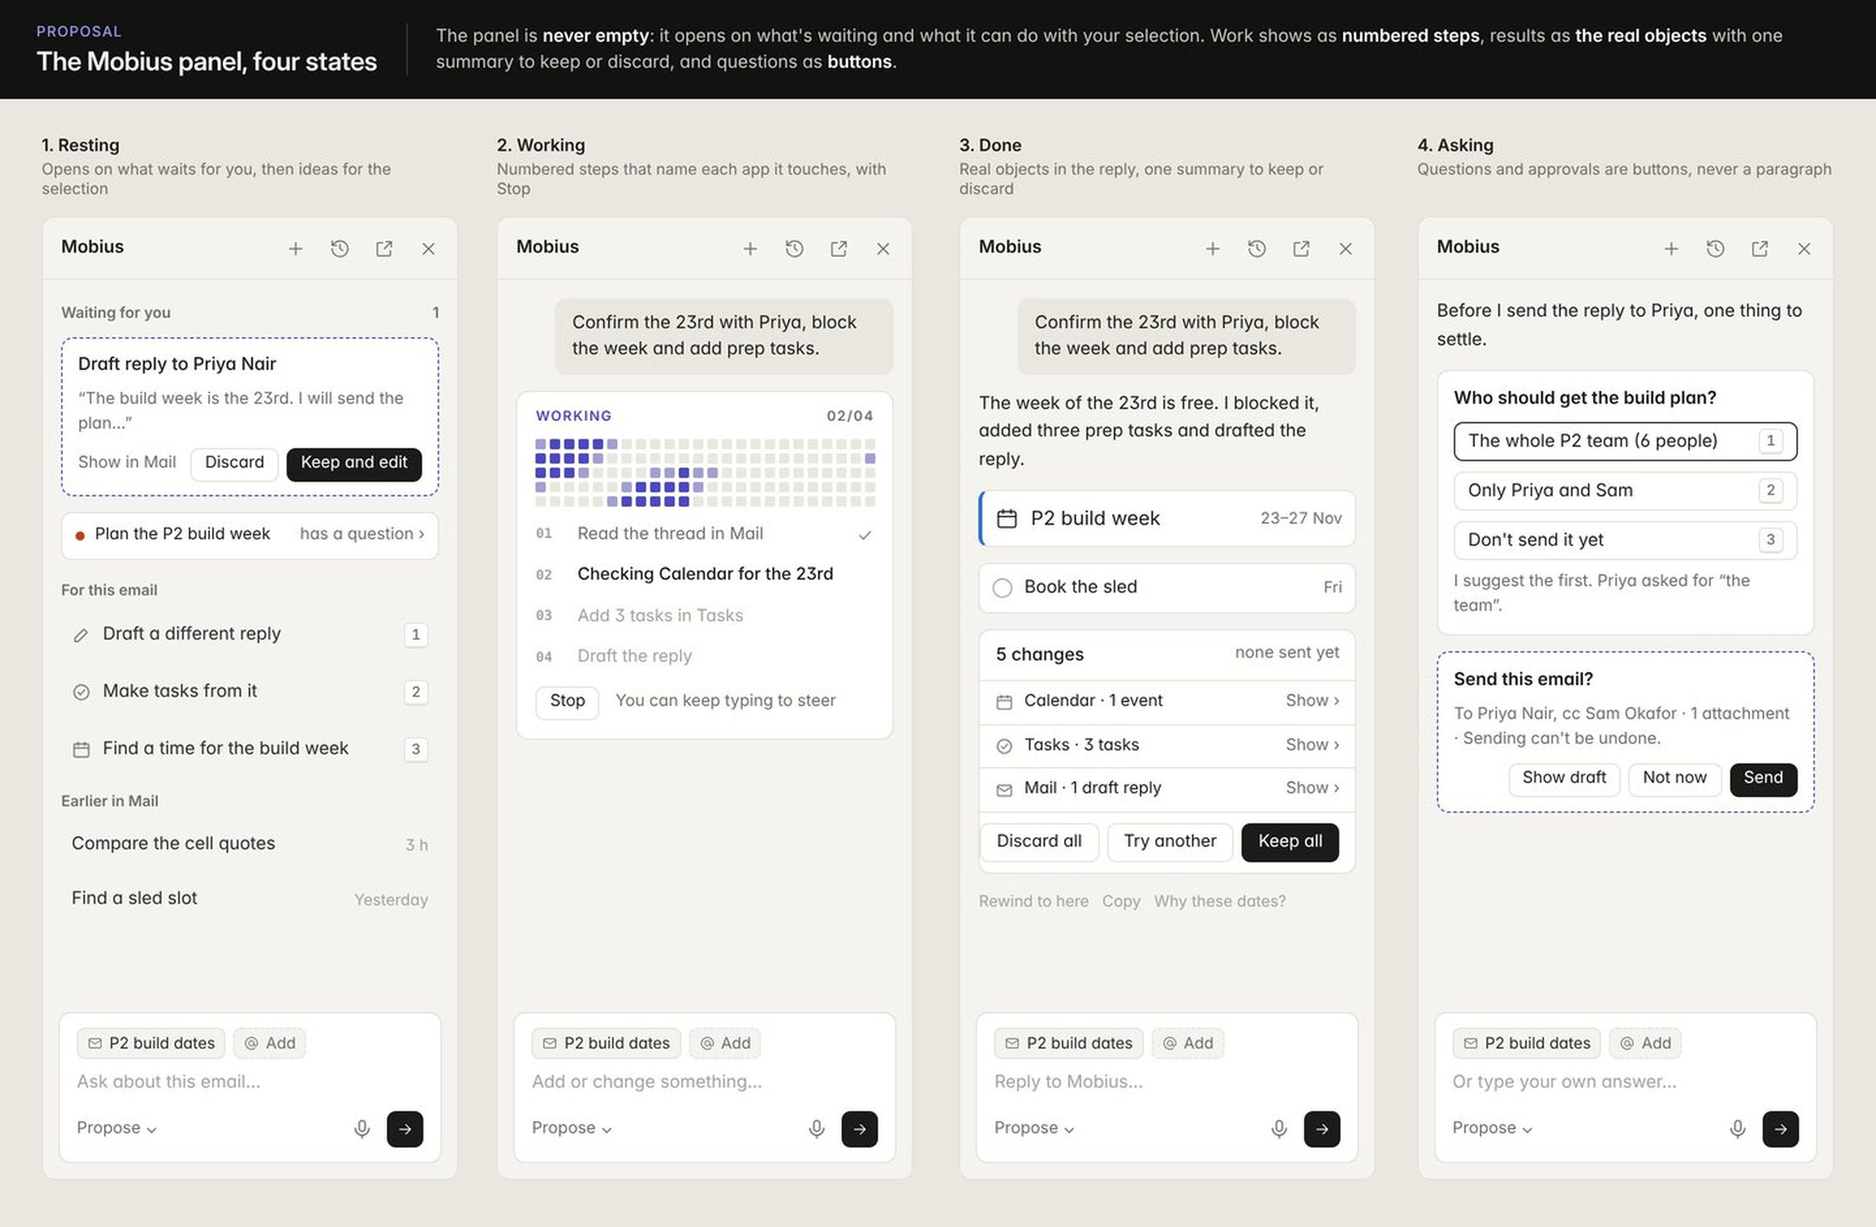
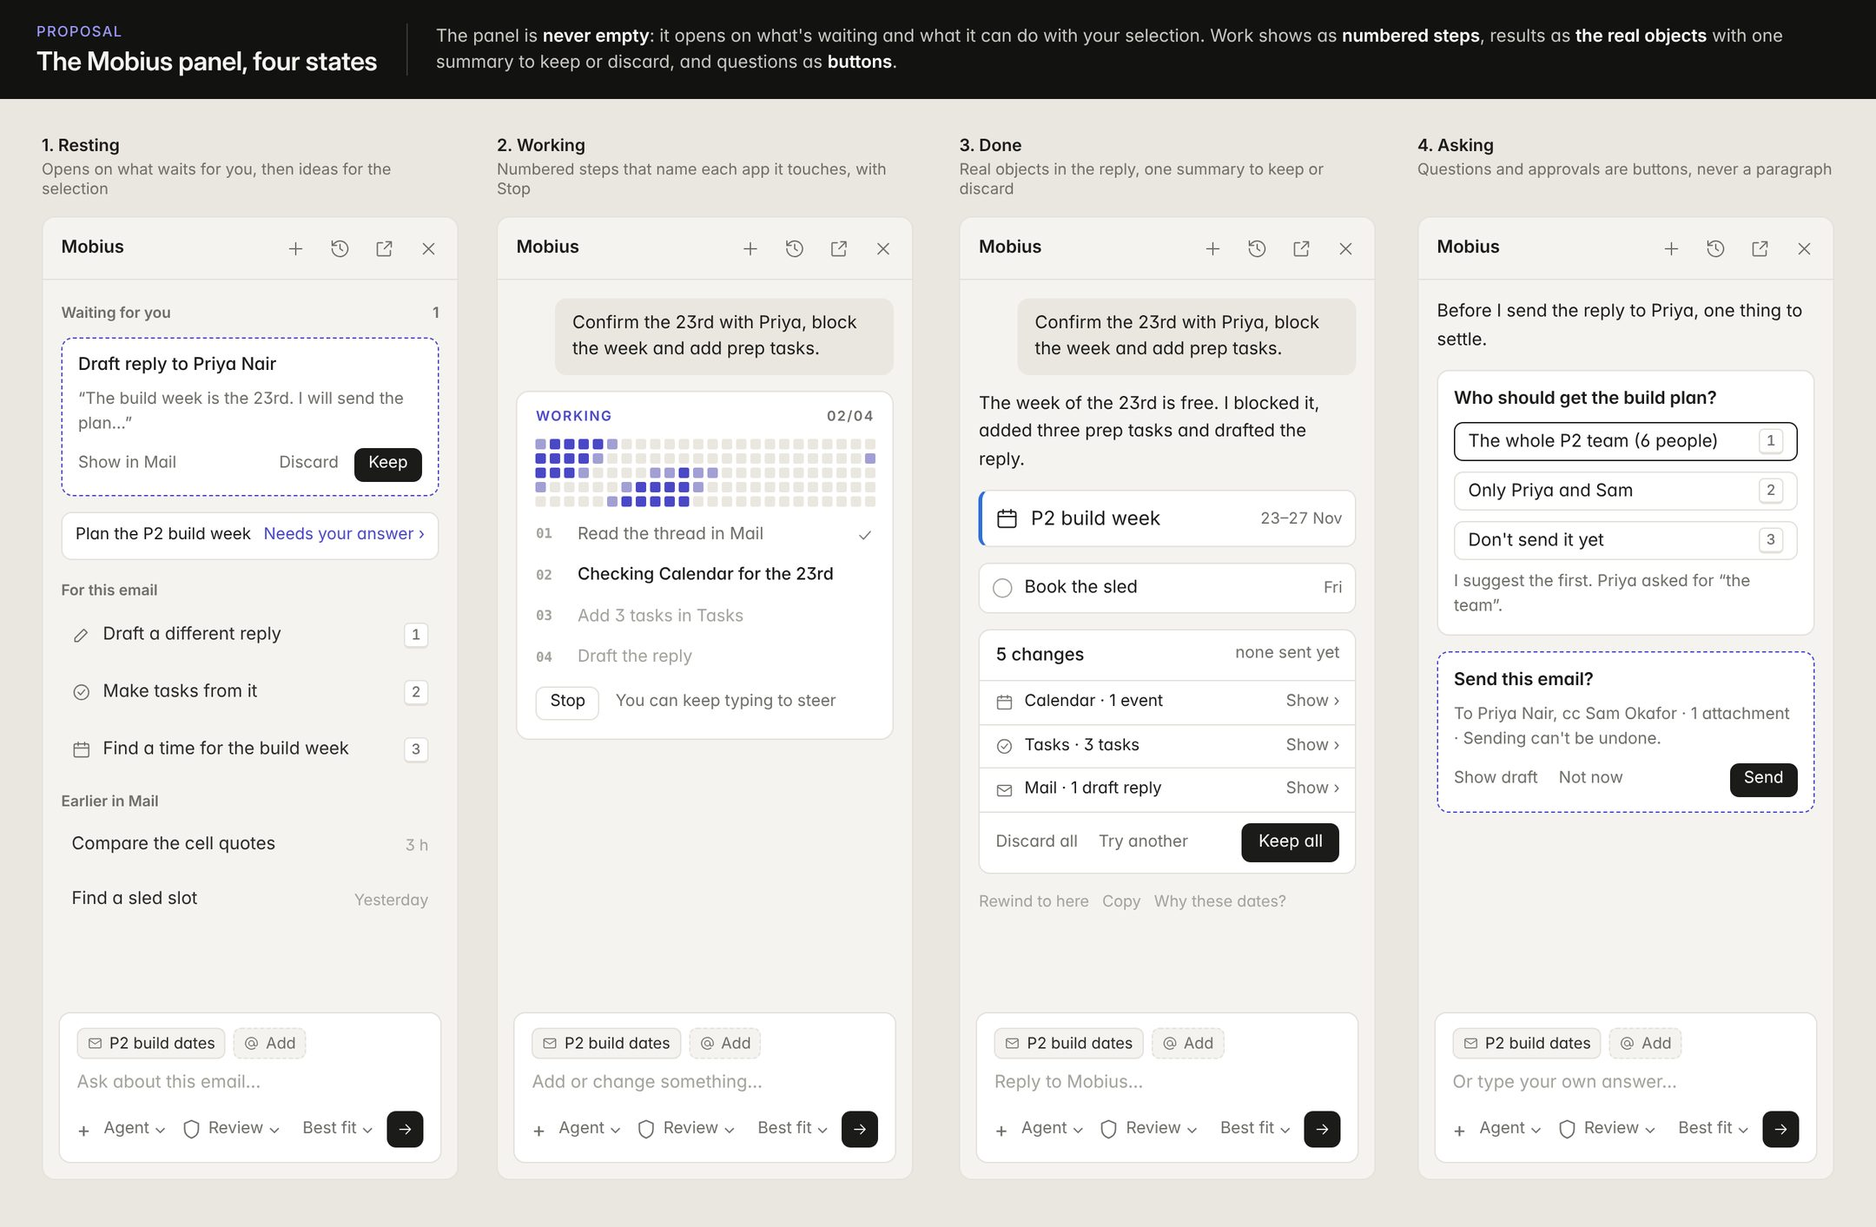
Docs: Instrument rules from the app rounds, shared objects, two-axis pad and the panel build sheet (#203)
* Design: shared objects, two-axis pad and round-review rules in Instrument

Adds the rules settled in the app Instrument rounds and round 9: two-line
row for lists beside a reading pane, the tick slider and meter, the
two-axis pad, the four forms of shared objects, grey calm status, frame-set
compact density for pro apps, and Reader's page colours as the one content
theme exception. Adds the two mocks.

Claude-Session: https://claude.ai/code/session_01VRGwo6jTP5FaDQDU1wMNRF

* Design: build sheet for the Mobius panel, composer, slots and cards

Sizes and parts for each piece of the panel, made from the shared ui/
controls, so the Builder can build stage 5c onwards without guessing.

Claude-Session: https://claude.ai/code/session_01VRGwo6jTP5FaDQDU1wMNRF

* Design: folded cards match the existing cards rule

Claude-Session: https://claude.ai/code/session_01VRGwo6jTP5FaDQDU1wMNRF

* Design: shared date and time fields in the controls table

Claude-Session: https://claude.ai/code/session_01VRGwo6jTP5FaDQDU1wMNRF

* Design: composer row in a narrow panel

Claude-Session: https://claude.ai/code/session_01VRGwo6jTP5FaDQDU1wMNRF

* Design: narrowest composer row

Claude-Session: https://claude.ai/code/session_01VRGwo6jTP5FaDQDU1wMNRF

* Design: number field, readout and letter toggle, first used by Music

Claude-Session: https://claude.ai/code/session_01VRGwo6jTP5FaDQDU1wMNRF

* Design: armed record toggle is red
[…]

diff --git a/docs/design/instrument.md b/docs/design/instrument.md
@@ -100,6 +100,7 @@ small and sparse next to the mocks.
 | Toolbar height | 48px | 52px comfortable, 44px compact |
 | Toolbar title | 13px semibold | 15px semibold |
 | Sidebar app name | 15px | 17px Inter Display |
+| Two-line row, for a list beside a reading pane (Mail, Notes) | None | 56px comfortable, 48px compact (`--row-list-2`) |
 | Reading pages (Home, a note, a doc) | Same as lists | 15 to 16px body, 44px rows, a column at most 680px wide |
 | Page heading on reading pages | None | 28 to 34px Inter Display, bold |
 
@@ -109,8 +110,11 @@ Rules that go with the sizes:
    hints.
 2. There is one row height per density in a view. Rows never vary in height to fit decoration.
 3. Daily apps (Mail, Tasks, Notes, Calendar, Files, Home) default to comfortable. Pro apps (Music, Video, Code,
-   Database, Sheets) default to compact.
+   Database, Sheets) are compact, and the frame makes them so, toolbar included. Apps never set their
+   own density selector.
 4. A short list is centred in a reading column or ends with a designed empty state. It never leaves a blank grey field.
+5. A list that sits beside a reading pane uses the two-line row: the title with the date at the trailing edge on line
+   one, the grey detail on line two. A list with the full width uses the one-line row.
 
 ## Colour
 
@@ -124,6 +128,10 @@ These mostly restate the adopted theme. Rules 4 and 5 are new.
 5. Content colour is shown as a small dot, a 3px edge or a soft tint. Solid colour blocks are only for things that are
    themselves coloured objects, such as a clip on a Music track.
 6. Red has two jobs only: something overdue or failed, and the current-time line in Calendar.
+7. Status has no other colour. A calm state ("Connected", "Key saved", "Signed in") is grey words with no dot. Only a
+   problem gets a red dot.
+8. One exception for content themes: Reader's Sepia, Grey and Night page colours are the reader's own and live in
+   Reader's stylesheet, named once. Text on any highlight tint must reach 4.5:1 in every page colour.
 
 ## Labels, numbers and keys
 
@@ -276,16 +284,28 @@ comfortable first, then compact. Comment on a row to change it.
 | Icon button | A line icon with no border. Hover is a grey fill. It always has a tooltip with its name and key. | 32px / 28px, 18px icon |
 | Text field | White with a hairline border. Focus is an ink border, not a glow. The unit or hint sits grey at the right. | 30px / 28px tall |
 | Pop-up (select) | Looks like a field with up and down chevrons at the right. Opens the shared menu. | Same |
-| Segmented control | Bordered group. The chosen segment has a grey fill and ink text. Used for view switches such as List, Board, Calendar. | 30px / 28px tall |
+| Segmented control | A grey track. The chosen segment is paper with a hairline and ink text. Used for view switches such as List, Board, Calendar. | 30px / 28px tall |
 | Checkbox | Rounded square. Checked is solid ink with a paper tick. Task circles in Tasks are the one round exception. | 18px |
 | Switch | Ink when on and grey when off. It sits at the trailing end of its row. | 32 by 18px |
-| Slider and meter | A thin grey track with an ink fill. Any value shown beside it uses tabular or mono figures. | 6px track |
+| Slider | A 6px grey track with an ink fill from zero to the value. The thumb is a 4 by 16px ink tick, not a round knob, so the fill reads at small values. The hit area is 24px. The value sits at the trailing edge in tabular figures, grey at zero and ink once moved. Both ends can be named ("Shorter", "Longer"). | 6px track |
+| Meter | The slider's track with no thumb. The bar stays ink; only the part past a threshold turns red. | 6px track |
+| Two-axis pad | One point sets two values. A frame-grey square with a quarter grid, a 14px ink point, crosshair lines to the edges, and a hollow mark where the value started. Both ends of both axes are named in words, and the values read out under it in mono. Arrows nudge, Shift+arrow nudges further, Home returns to the start. | 120px tall at least, square up to 240px |
+| Date field | Shows the date in words ("Thu 20 Nov") and takes typing ("tomorrow", "fri 3pm"). Opens a popover with quick picks first (Today, Tomorrow, Next week, No date, each with its key and the date it means in grey), then a month: month name with previous and next buttons, grey weekday letters, day cells in tabular figures. Today is an ink badge, the chosen day a grey fill. Week start and date format come from the shared date helpers. Arrows move by day, Page Up and Down by month, T jumps to today. | 280px popover, 32px day cells |
+| Time field | Takes typing ("9:30", "3pm") and opens a list of quarter hours scrolled to now. For a start and end, the end moves with the start and shows the length in grey ("1 hr"). 12 or 24 hour from the shared date helpers. | 30px rows |
+| Number field | A value you can type, nudge with the arrows (Shift for ten times), or drag up and down to scrub. Mono and tabular, with the unit in grey ("120 BPM"). Double-click resets. Out-of-range values clamp and say so in the tooltip. | 28px / 24px tall |
+| Readout | A read-only live value in JetBrains Mono, tabular and fixed width so it never jitters ("12 . 3 . 2"). Click switches its format (bars or time) or copies it. | Same height as a control |
+| Letter toggle | A small square toggle with one letter: M mute, S solo, R record, and the same for lock and hide. Off is a hairline square with a grey letter; on is an ink fill with a paper letter. An armed R is the one red fill, because recording has to read as a warning across the room. | 20px square |
+| Knob | A parameter cell as a dial for dense instrument panels. A 2px grey track arc, a 3px ink value arc and pointer with round caps, filling from the value's origin (pan from C, tune from 0). The value reads under it in mono: grey at its default, ink once changed. | 40px dial |
+| Envelope and filter graphs | A frame-grey plot with a light fill under one ink curve and hollow handles you drag. Readouts sit under the plot in mono. A modulated or "opens to" curve is a 1px solid muted line, never dashed, because dashed means Mobius. | Panel width, 120 to 160px tall |
+| EQ graph | The same plot with numbered band dots (across is frequency, up is gain) and the chosen band's own shape faint under the curve. Guides at ±6 and ±12 dB are solid hairlines at half the 0 dB line's strength, with faint mono labels at the left edge and 100, 1k, 10k along the foot. One column per band under the plot; the chosen band's dot and column are ink. | 144px tall, 120px compact |
+| Device frame | Head: grip, on/off switch, title, fold. Off dims the body only; the title stays ink so the device can be found in the chain. Collapsed shows the head alone. A device Mobius added waits with the dashed indigo edge. Labels are sentence case in fs-xs grey. | Head 32px, 28px compact |
+| Step grid | Rows of square steps in groups of four, with every other group on frame grey. An on-step is ink filled to its velocity height, an accent fills it. The playing column is outlined. | 32 to 36px steps, 4px gaps |
 | Menu | White, a hairline border, 10px corners and a soft shadow. Mobius actions come first where they exist, then the app's. Every item shows its key. | 30px rows |
 | Tooltip | Small ink label with the control's name, then its key. | 12px text |
 | Key cap | A small bordered cap with a heavier bottom edge. Used in menus, tooltips, the New button and the hint bar. | 11px text |
 | Chip (label or tag) | An outlined pill with a small colour dot and grey text. Never a solid colour fill. | 12px text |
 | Count | A plain grey number at the trailing edge. Never a black or coloured badge, except a dot on the rail. | 12.5px, tabular |
-| Avatar | A grey circle with initials, or the photo. | 22px in rows |
+| Avatar | A grey circle with initials, or the photo. | 24px in one-line rows, 32px in two-line rows, 40px on a card |
 | Focus ring | A 2px ink outline on keyboard focus only. | 2px |
 
 ### Content
@@ -293,7 +313,8 @@ comfortable first, then compact. Comment on a row to change it.
 | Element | How it looks and behaves | Size |
 | --- | --- | --- |
 | Content surface | The brightest surface in the window (paper). The frame around it is one step dimmer. | Fills its zone |
-| List row | One line: the control or icon, the title in full ink, then grey details and the date at the right. A hairline sits between rows, and selected is a grey fill. | 40px / 32px |
+| List row | One line: the control or icon, the title in full ink, then grey details and the date at the right. A hairline sits between rows, and selected is a grey fill that runs the full width, under any trailing date or button. Text ends with an ellipsis. | 40px / 32px |
+| Two-line row | For a list beside a reading pane. Line one: the title, with the date at the trailing edge. Line two: the grey detail. | 56px / 48px |
 | Group header | A quiet band with the group name, a grey count, and a plus at the right to add to that group. | 40px / 32px |
 | Table and grid | Hairline grid, a header row in grey semibold, and numbers right-aligned with tabular figures. The selected cell has an ink outline. | 32px / 28px rows |
 | Page heading | Only on reading pages such as Home, a note or a doc. Large Inter Display with a grey line of context under it. | 28 to 34px |
@@ -564,6 +585,12 @@ switch, a count or an arrow.
 Anything switched away from its default shows as a small chip above the composer ("Web search off", "3 skills"), so the
 state is always visible without opening the menu. Dropping or pasting a file onto the panel is the same as Add context.
 
+An item appears only once real per-chat state stands behind it; never show a switch that does nothing. The first build
+has Dictate (narrow panel), Add context, Apps Mobius can use, Permissions and Manage in Abilities. Skills, Plugins and
+connectors, Web search, Knowledge and Instructions join as they become real. The "up to 5 things" limits note belongs to
+Add context, so it sits in grey under that group, not at the foot of the menu. Every hairline in the menu runs the same
+width.
+
 ### How the composer is laid out
 
 Left to right on the bottom row: the plus button, Mode, Permission, then at the right the model and Send. Context chips
@@ -744,6 +771,69 @@ Repeat, and Watch for what should keep running.
 10. **At most two cards open at once** under a result. The rest fold to one line each, in the fixed order Sources,
     Adjust, Compare, Check.
 
+## Building the panel: each part's size and parts
+
+**This is the build sheet for everything above: the four states, the composer, the slots, Adjust and the cards. Every
+part is made from the shared controls in `src/ui/` and the shared object designs. Nothing here needs a new colour or
+size token.**
+
+### Resting panel, top to bottom
+
+| Part | How it's built | Size |
+| --- | --- | --- |
+| Head | "Mobius" as the last tab, then New chat, History, Pop out and Close as icon buttons | 52px / 44px tall, 32px buttons |
+| Glance (slot) | One paper card: up to three facts as a grey label over a value (tabular figures), and at most one quiet button. Hidden when the app gives none. | 8px corners, 12px inside |
+| Section heading | "Waiting for you", "For this email", "Earlier chats": grey semibold, sentence case, a count at the right, a hairline under it | 12.5px, 20px above |
+| Waiting card | One per pending change. Dashed indigo edge (1.5px). Line 1: app icon and what changed, one line, ending in an ellipsis. Line 2: grey app name and time. Then Show and Discard as quiet text buttons and one small ink Keep at the right. Three at most, then a "2 more" row. | 8px corners, 26px buttons |
+| Other chat needing you | A list row: the chat's title, and "Needs your answer" in indigo text at the right. No dot. | 36px / 32px row |
+| Actions (slot) | The ideas list. Up to four rows that follow the selection: a 16px line icon, the action, and its number key cap at the right. Grey fill on hover. Never outlined buttons, and never a lone button above the list. | 36px / 32px rows |
+| Earlier chats | List rows: title with an ellipsis, time at the right in grey tabular figures. Five at most, then "All chats" opens History. | 36px / 32px rows |
+
+### Composer
+
+| Part | How it's built | Size |
+| --- | --- | --- |
+| Box | Paper, 1px line, hint text in grey. Grows to six lines, then scrolls. | 9px corners, 12px inside |
+| Context chips | Inside the box, above the text: the shared chip with the app's icon and the thing's name ("Email: P2 build"). Selecting something adds its chip, the cross removes it. This replaces the "Sees" line. | 24px tall, 12px text |
+| Changed-setting chips | Under the context chips when anything in the plus menu is off its default ("Web search off", "3 skills") | fs-xs (12px, 11px compact), 6px corners, frame fill |
+| Bottom row | Plus (icon button), Mode, Permission (shield and short label), then at the right the model and an ink Send. Mode, Permission and model are quiet buttons with a small chevron. | 28px controls |
+| Narrow panel | Under 380px, Dictate moves into the plus menu as its first row and keeps its shortcut. The model never shows an ellipsis. When the row doesn't fit it gives way in this order, measured, not at fixed widths: Permission shows only its shield, then the model drops its effort suffix ("Sonnet 5.5 · High" becomes "Sonnet 5.5"), then the model shows only its icon. Each keeps its full name in the tooltip. While dictating, the model steps aside for the recording readout. | |
+| Menus | Open upward from their button. Rows with a check on the current choice and a key cap at the right. Permission and model rows are two lines: the name, and a grey line on what it means. | 30px rows, two-line rows 7px inside |
+
+### Working, Done and Asking
+
+| Part | How it's built | Size |
+| --- | --- | --- |
+| Steps | Numbered rows. The number in tabular grey, then the step naming its app ("Checking Calendar for the 23rd"). The current step is ink, done steps grey. | 28px rows |
+| Stop | A quiet button with Esc shown, always under the steps | 26px |
+| Reply | Plain 14px text, no bubble. Names of things it touched are indigo links. | 1.6 line height |
+| Under each reply | Rewind to here, Copy and one follow-up as grey text buttons. The model that answered in small grey text at the right. | 12.5px, model fs-xs |
+| Result (slot) | The real objects, drawn as shared object cards or rows | Shared object sizes |
+| Turn summary | One per turn that changed things. A paper card with a hairline between parts. Header: the title on one line with an ellipsis and "5 changes" in grey at the right. One row per app with its icon, what changed and Show. Footer: Discard all and Try another as quiet text on the left, one ink Keep all on the right, all on one line. | 8px corners, 36px header, 32px rows, 40px footer |
+| Question (Picker slot) | A paper card: the question, then up to three option rows with number keys. The suggested option has an ink edge. An approval for sending, paying or deleting is dashed and says it can't be undone. | 32px option rows |
+
+### Adjust and the cards
+
+All of them share one card shell, so Compare, Check, Repeat and Adjust look like one family.
+
+| Part | How it's built | Size |
+| --- | --- | --- |
+| Shell | Paper card with a 1px line | 8px corners |
+| Header | The card's name in semibold, and a close cross | 36px |
+| Body | The app's rows, built from shared controls (slider, segmented, switch, two-axis pad, object rows) | 12px inside |
+| Footer | Quiet text buttons on the left (Reset, Discard), one ink button on the right (Keep) | 40px |
+| How many | Two cards open at most. The rest fold to one line each, in the order Sources, Adjust, Compare, Check. | 36px folded |
+
+### Rules for building it
+
+1. **Sentence case in the panel.** The kind labels in small caps ("NOTES", "TASK") are for pro apps' own panels, not
+   for Mobius.
+2. **One ink button per card.** Everything else in a card is quiet text.
+3. **No stray marks.** No dot sits before a title unless it means a problem.
+4. **Titles never wrap into the buttons.** Text ends with an ellipsis, and the full text is in the tooltip.
+5. **Menus use the shared popover and menu rows** once the component library has them. Until then the existing menu
+   rows are fine.
+
 ## One app, not twenty
 
 Everything above unifies how Mobius looks. These three parts unify how it behaves and make the rules hold, which a look
@@ -751,8 +841,30 @@ alone can't do.
 
 ### The same thing looks the same everywhere
 
-A task, an event, a mail, a file, a person and a note each have one row design and one small card design, owned by the
-shell. Any app that shows one uses that design.
+A task, an event, a mail, a file, a person and a note each have one design, owned by the shell (`ObjectRow`,
+`ObjectCard`, `ObjectChip`). Any app that shows one uses it. Each comes in four forms:
+
+| Form | Size | Used for |
+| --- | --- | --- |
+| One-line row | 40px / 32px | Lists with the full width, results, dashboard tiles |
+| Two-line row | 56px / 48px | A list beside a reading pane |
+| Card | 280px or the panel's width, 10px corners | Mobius's results and Sources, Views, a peek on Space |
+| Chip | 22px tall, 6px corners, a hairline | Inside text: the composer, answers, notes |
+
+Every row has the same order: a leading mark that names the kind, the title in ink, one grey detail, then the date or
+count at the trailing edge in tabular figures.
+
+| Kind | Leading mark | Grey detail | Trailing |
+| --- | --- | --- | --- |
+| Task | Round check, solid ink when done | Note, or list and steps | Due date, red when overdue |
+| Event | 3px bar in the calendar's colour | Place and people | Day and time |
+| Mail | Small ink dot when unread; sender and subject semibold when unread | First words | Time today, otherwise the day |
+| File | The kind's line icon | App and folder | When it last changed |
+| Person | Grey initials | Role or address | A count, such as "3 emails" |
+
+Anything Mobius proposed or changed carries the dashed indigo edge in every form, inset 3px with 8px corners in a list,
+and its card's kind line says "changed by Mobius". Mock: `instrument/mobius-shared-objects.jpg`. The two-axis pad's mock
+is `instrument/mobius-xy-pad.jpg`.
 
 | Thing | Where else it shows up | Rule |
 | --- | --- | --- |
@@ -933,6 +1045,13 @@ reduced motion, contrast of 4.5 to 1, and keyboard reach. They stay as they are.
 - **How many cards open at once.** Two, with the rest folded? **Decided:** yes.
 - **First cards to build.** Sources and Check first (they build trust), then Compare, then Repeat and Watch?
   **Decided:** yes.
+
+### Shared objects and the two-axis pad (round 9)
+
+- Andrew, 2026-11-14 00:51: go ahead as drafted. Built as shared components (#200 controls, #202 objects and pad).
+- The slider thumb is an ink tick, taken from Photo's Instrument round.
+- Lists beside a reading pane use the two-line row (Mail, Notes).
+- Calm status is grey words with no dot; green is not used.
 
 ## How it rolls out
 
